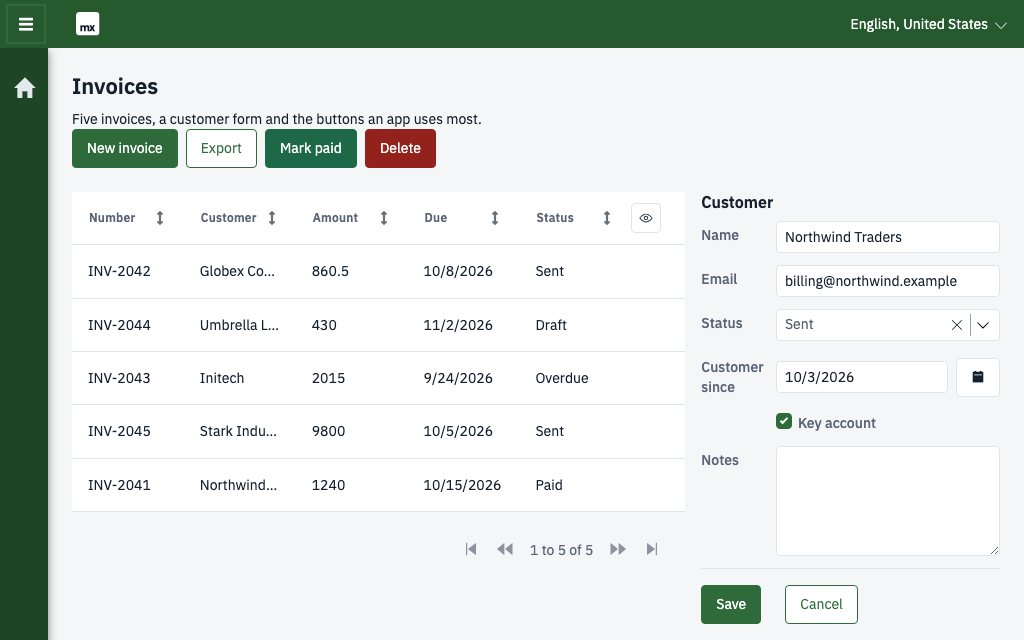
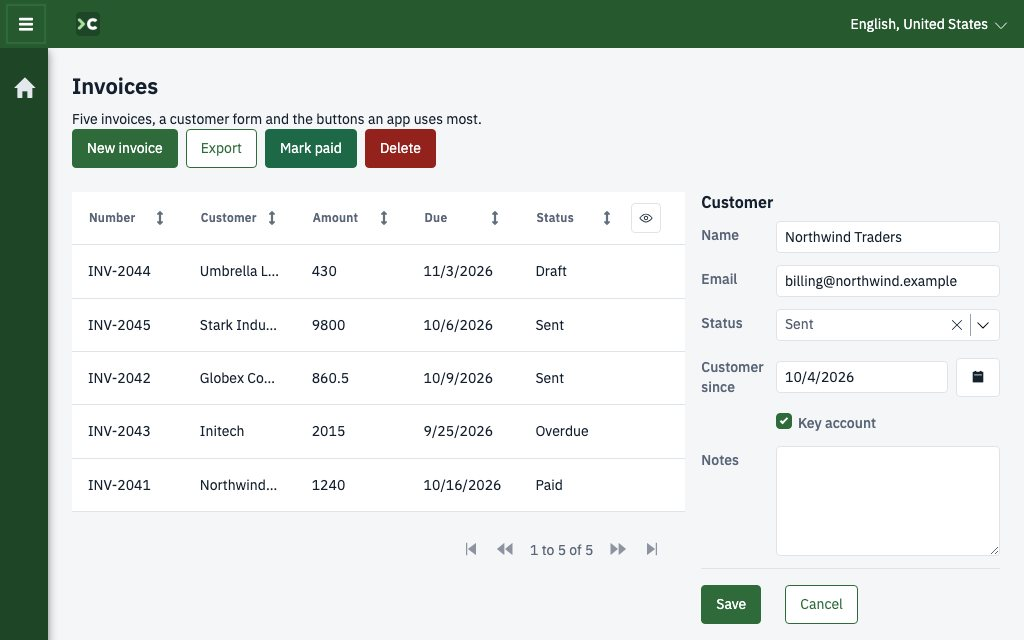
Theme frame: set Atlas's own variables instead of restyling Atlas classes
The skin appended to each bundle theme restyled Atlas classes (.region-topbar,
.mx-navigationtree li.active, .btn-default) with fixed colours. Mendix asks a theme to be
customised through its variables, and Atlas paints these parts from them: --navtopbar-bg
(layouts/_layout-atlas.scss), --navsidebar-bg-active/-hover (helpers/_navigation-tree.scss),
--btn-default-color/-border-color (helpers/_button.scss). The skin now sets only those; the
button colours are scoped to the buttons a page author set to Default (.mx-button.btn-default),
so the grid's column selector and the date picker keep the neutral look, as before.

Same look: five apps built with the installer per theme, old skin against new, compared pixel
by pixel at 1024x640: no difference outside the grid's rows, which only come back in another
order (the showcase grid has no sort). The screenshots are the new builds, now with the
mx-codr logo, Atlas included. An audit test fails a skin that sets any non-variable property.

diff --git a/mxcodr/checks/themes/forest.skin.scss b/mxcodr/checks/themes/forest.skin.scss
@@ -1,30 +1,22 @@
-
 // ---------------------------------------------------------------------------
-// mx-codr frame for the forest theme: a top bar of its own colour, a lighter active
-// item on the side rail, and outline buttons in the brand colour. Appended to the
-// scaffold by the installer (tests/theme.sh too) before `mxcli theme apply`.
+// mx-codr frame for the forest theme: a top bar of its own colour, a lighter active item on
+// the side rail, and outline buttons in the brand colour. Appended to the scaffold by the
+// installer (tests/theme.sh too) before `mxcli theme apply`.
+//
+// Only Atlas's own variables are set -- the ones Atlas Core paints these parts with
+// (layouts/_layout-atlas.scss, helpers/_navigation-tree.scss, helpers/_button.scss). No
+// Atlas property is restyled, so an Atlas update keeps working. This comes after the
+// theme's own block, at the same scope, so it wins without !important.
 :root {
-  --mxcodr-top: #27592f;
-  --mxcodr-rail-active: #2e5e37;
+  --navtopbar-bg: #27592f;
+  --navsidebar-bg-active: #2e5e37;
+  --navsidebar-bg-hover: #2e5e37;
+  --navsidebar-border-radius: var(--mxt-radius-lg);
 }
-.layout-atlas .region-topbar {
-  background-color: var(--mxcodr-top);
-  color: #ffffff;
-}
-.layout-atlas .region-topbar a,
-.layout-atlas .region-topbar .btn,
-.layout-atlas .region-topbar .mx-name-languageSelector,
-.layout-atlas .region-topbar [class*="dropdown"] {
-  color: #ffffff;
-}
-.layout-atlas .region-sidebar .mx-navigationtree li.active > a,
-.layout-atlas .region-sidebar .mx-navigationtree li.active > .navbar-link,
-.layout-atlas .region-sidebar .mx-navigationtree li > a:hover {
-  background-color: var(--mxcodr-rail-active);
-  color: #ffffff;
-  border-radius: var(--mxt-radius-lg);
-}
-.region-content .btn-default:not(.column-selector-button) {
-  border-color: var(--mxt-brand);
-  color: var(--mxt-brand);
+// Buttons a page author set to the Default style (Mendix renders them `mx-button btn-default`)
+// take the brand colour. The variables are scoped to them, so the grid's column selector
+// (`btn-default` only) and the date picker's button (`mx-button` only) keep the neutral look.
+.mx-button.btn-default {
+  --btn-default-color: var(--mxt-brand);
+  --btn-default-border-color: var(--mxt-brand);
 }

diff --git a/mxcodr/checks/themes/amber.skin.scss b/mxcodr/checks/themes/amber.skin.scss
@@ -1,30 +1,22 @@
-
 // ---------------------------------------------------------------------------
-// mx-codr frame for the amber theme: a top bar of its own colour, a lighter active
-// item on the side rail, and outline buttons in the brand colour. Appended to the
-// scaffold by the installer (tests/theme.sh too) before `mxcli theme apply`.
+// mx-codr frame for the amber theme: a top bar of its own colour, a lighter active item on
+// the side rail, and outline buttons in the brand colour. Appended to the scaffold by the
+// installer (tests/theme.sh too) before `mxcli theme apply`.
+//
+// Only Atlas's own variables are set -- the ones Atlas Core paints these parts with
+// (layouts/_layout-atlas.scss, helpers/_navigation-tree.scss, helpers/_button.scss). No
+// Atlas property is restyled, so an Atlas update keeps working. This comes after the
+// theme's own block, at the same scope, so it wins without !important.
 :root {
-  --mxcodr-top: #2e3440;
-  --mxcodr-rail-active: #434c5e;
+  --navtopbar-bg: #2e3440;
+  --navsidebar-bg-active: #434c5e;
+  --navsidebar-bg-hover: #434c5e;
+  --navsidebar-border-radius: var(--mxt-radius-lg);
 }
-.layout-atlas .region-topbar {
-  background-color: var(--mxcodr-top);
-  color: #ffffff;
-}
-.layout-atlas .region-topbar a,
-.layout-atlas .region-topbar .btn,
-.layout-atlas .region-topbar .mx-name-languageSelector,
-.layout-atlas .region-topbar [class*="dropdown"] {
-  color: #ffffff;
-}
-.layout-atlas .region-sidebar .mx-navigationtree li.active > a,
-.layout-atlas .region-sidebar .mx-navigationtree li.active > .navbar-link,
-.layout-atlas .region-sidebar .mx-navigationtree li > a:hover {
-  background-color: var(--mxcodr-rail-active);
-  color: #ffffff;
-  border-radius: var(--mxt-radius-lg);
-}
-.region-content .btn-default:not(.column-selector-button) {
-  border-color: var(--mxt-brand);
-  color: var(--mxt-brand);
+// Buttons a page author set to the Default style (Mendix renders them `mx-button btn-default`)
+// take the brand colour. The variables are scoped to them, so the grid's column selector
+// (`btn-default` only) and the date picker's button (`mx-button` only) keep the neutral look.
+.mx-button.btn-default {
+  --btn-default-color: var(--mxt-brand);
+  --btn-default-border-color: var(--mxt-brand);
 }

diff --git a/mxcodr/checks/themes/navy.skin.scss b/mxcodr/checks/themes/navy.skin.scss
@@ -1,30 +1,22 @@
-
 // ---------------------------------------------------------------------------
-// mx-codr frame for the navy theme: a top bar of its own colour, a lighter active
-// item on the side rail, and outline buttons in the brand colour. Appended to the
-// scaffold by the installer (tests/theme.sh too) before `mxcli theme apply`.
+// mx-codr frame for the navy theme: a top bar of its own colour, a lighter active item on
+// the side rail, and outline buttons in the brand colour. Appended to the scaffold by the
+// installer (tests/theme.sh too) before `mxcli theme apply`.
+//
+// Only Atlas's own variables are set -- the ones Atlas Core paints these parts with
+// (layouts/_layout-atlas.scss, helpers/_navigation-tree.scss, helpers/_button.scss). No
+// Atlas property is restyled, so an Atlas update keeps working. This comes after the
+// theme's own block, at the same scope, so it wins without !important.
 :root {
-  --mxcodr-top: #1b3354;
-  --mxcodr-rail-active: #24456f;
+  --navtopbar-bg: #1b3354;
+  --navsidebar-bg-active: #24456f;
+  --navsidebar-bg-hover: #24456f;
+  --navsidebar-border-radius: var(--mxt-radius-lg);
 }
-.layout-atlas .region-topbar {
-  background-color: var(--mxcodr-top);
-  color: #ffffff;
-}
-.layout-atlas .region-topbar a,
-.layout-atlas .region-topbar .btn,
-.layout-atlas .region-topbar .mx-name-languageSelector,
-.layout-atlas .region-topbar [class*="dropdown"] {
-  color: #ffffff;
-}
-.layout-atlas .region-sidebar .mx-navigationtree li.active > a,
-.layout-atlas .region-sidebar .mx-navigationtree li.active > .navbar-link,
-.layout-atlas .region-sidebar .mx-navigationtree li > a:hover {
-  background-color: var(--mxcodr-rail-active);
-  color: #ffffff;
-  border-radius: var(--mxt-radius-lg);
-}
-.region-content .btn-default:not(.column-selector-button) {
-  border-color: var(--mxt-brand);
-  color: var(--mxt-brand);
+// Buttons a page author set to the Default style (Mendix renders them `mx-button btn-default`)
+// take the brand colour. The variables are scoped to them, so the grid's column selector
+// (`btn-default` only) and the date picker's button (`mx-button` only) keep the neutral look.
+.mx-button.btn-default {
+  --btn-default-color: var(--mxt-brand);
+  --btn-default-border-color: var(--mxt-brand);
 }

diff --git a/mxcodr/checks/themes/plum.skin.scss b/mxcodr/checks/themes/plum.skin.scss
@@ -1,30 +1,22 @@
-
 // ---------------------------------------------------------------------------
-// mx-codr frame for the plum theme: a top bar of its own colour, a lighter active
-// item on the side rail, and outline buttons in the brand colour. Appended to the
-// scaffold by the installer (tests/theme.sh too) before `mxcli theme apply`.
+// mx-codr frame for the plum theme: a top bar of its own colour, a lighter active item on
+// the side rail, and outline buttons in the brand colour. Appended to the scaffold by the
+// installer (tests/theme.sh too) before `mxcli theme apply`.
+//
+// Only Atlas's own variables are set -- the ones Atlas Core paints these parts with
+// (layouts/_layout-atlas.scss, helpers/_navigation-tree.scss, helpers/_button.scss). No
+// Atlas property is restyled, so an Atlas update keeps working. This comes after the
+// theme's own block, at the same scope, so it wins without !important.
 :root {
-  --mxcodr-top: #4a2f5c;
-  --mxcodr-rail-active: #56366a;
+  --navtopbar-bg: #4a2f5c;
+  --navsidebar-bg-active: #56366a;
+  --navsidebar-bg-hover: #56366a;
+  --navsidebar-border-radius: var(--mxt-radius-lg);
 }
-.layout-atlas .region-topbar {
-  background-color: var(--mxcodr-top);
-  color: #ffffff;
-}
-.layout-atlas .region-topbar a,
-.layout-atlas .region-topbar .btn,
-.layout-atlas .region-topbar .mx-name-languageSelector,
-.layout-atlas .region-topbar [class*="dropdown"] {
-  color: #ffffff;
-}
-.layout-atlas .region-sidebar .mx-navigationtree li.active > a,
-.layout-atlas .region-sidebar .mx-navigationtree li.active > .navbar-link,
-.layout-atlas .region-sidebar .mx-navigationtree li > a:hover {
-  background-color: var(--mxcodr-rail-active);
-  color: #ffffff;
-  border-radius: var(--mxt-radius-lg);
-}
-.region-content .btn-default:not(.column-selector-button) {
-  border-color: var(--mxt-brand);
-  color: var(--mxt-brand);
+// Buttons a page author set to the Default style (Mendix renders them `mx-button btn-default`)
+// take the brand colour. The variables are scoped to them, so the grid's column selector
+// (`btn-default` only) and the date picker's button (`mx-button` only) keep the neutral look.
+.mx-button.btn-default {
+  --btn-default-color: var(--mxt-brand);
+  --btn-default-border-color: var(--mxt-brand);
 }

diff --git a/mxcodr/checks/themes/teal.skin.scss b/mxcodr/checks/themes/teal.skin.scss
@@ -1,30 +1,22 @@
-
 // ---------------------------------------------------------------------------
-// mx-codr frame for the teal theme: a top bar of its own colour, a lighter active
-// item on the side rail, and outline buttons in the brand colour. Appended to the
-// scaffold by the installer (tests/theme.sh too) before `mxcli theme apply`.
+// mx-codr frame for the teal theme: a top bar of its own colour, a lighter active item on
+// the side rail, and outline buttons in the brand colour. Appended to the scaffold by the
+// installer (tests/theme.sh too) before `mxcli theme apply`.
+//
+// Only Atlas's own variables are set -- the ones Atlas Core paints these parts with
+// (layouts/_layout-atlas.scss, helpers/_navigation-tree.scss, helpers/_button.scss). No
+// Atlas property is restyled, so an Atlas update keeps working. This comes after the
+// theme's own block, at the same scope, so it wins without !important.
 :root {
-  --mxcodr-top: #0c6766;
-  --mxcodr-rail-active: #14595a;
+  --navtopbar-bg: #0c6766;
+  --navsidebar-bg-active: #14595a;
+  --navsidebar-bg-hover: #14595a;
+  --navsidebar-border-radius: var(--mxt-radius-lg);
 }
-.layout-atlas .region-topbar {
-  background-color: var(--mxcodr-top);
-  color: #ffffff;
-}
-.layout-atlas .region-topbar a,
-.layout-atlas .region-topbar .btn,
-.layout-atlas .region-topbar .mx-name-languageSelector,
-.layout-atlas .region-topbar [class*="dropdown"] {
-  color: #ffffff;
-}
-.layout-atlas .region-sidebar .mx-navigationtree li.active > a,
-.layout-atlas .region-sidebar .mx-navigationtree li.active > .navbar-link,
-.layout-atlas .region-sidebar .mx-navigationtree li > a:hover {
-  background-color: var(--mxcodr-rail-active);
-  color: #ffffff;
-  border-radius: var(--mxt-radius-lg);
-}
-.region-content .btn-default:not(.column-selector-button) {
-  border-color: var(--mxt-brand);
-  color: var(--mxt-brand);
+// Buttons a page author set to the Default style (Mendix renders them `mx-button btn-default`)
+// take the brand colour. The variables are scoped to them, so the grid's column selector
+// (`btn-default` only) and the date picker's button (`mx-button` only) keep the neutral look.
+.mx-button.btn-default {
+  --btn-default-color: var(--mxt-brand);
+  --btn-default-border-color: var(--mxt-brand);
 }

diff --git a/mxcodr/checks/themes/skin.template.scss b/mxcodr/checks/themes/skin.template.scss
@@ -1,30 +1,22 @@
-
 // ---------------------------------------------------------------------------
-// mx-codr frame for the $NAME theme: a top bar of its own colour, a lighter active
-// item on the side rail, and outline buttons in the brand colour. Appended to the
-// scaffold by the installer (tests/theme.sh too) before `mxcli theme apply`.
+// mx-codr frame for the $NAME theme: a top bar of its own colour, a lighter active item on
+// the side rail, and outline buttons in the brand colour. Appended to the scaffold by the
+// installer (tests/theme.sh too) before `mxcli theme apply`.
+//
+// Only Atlas's own variables are set -- the ones Atlas Core paints these parts with
+// (layouts/_layout-atlas.scss, helpers/_navigation-tree.scss, helpers/_button.scss). No
+// Atlas property is restyled, so an Atlas update keeps working. This comes after the
+// theme's own block, at the same scope, so it wins without !important.
 :root {
-  --mxcodr-top: $TOP;
-  --mxcodr-rail-active: $ACTIVE;
+  --navtopbar-bg: $TOP;
+  --navsidebar-bg-active: $ACTIVE;
+  --navsidebar-bg-hover: $ACTIVE;
+  --navsidebar-border-radius: var(--mxt-radius-lg);
 }
-.layout-atlas .region-topbar {
-  background-color: var(--mxcodr-top);
-  color: #ffffff;
-}
-.layout-atlas .region-topbar a,
-.layout-atlas .region-topbar .btn,
-.layout-atlas .region-topbar .mx-name-languageSelector,
-.layout-atlas .region-topbar [class*="dropdown"] {
-  color: #ffffff;
-}
-.layout-atlas .region-sidebar .mx-navigationtree li.active > a,
-.layout-atlas .region-sidebar .mx-navigationtree li.active > .navbar-link,
-.layout-atlas .region-sidebar .mx-navigationtree li > a:hover {
-  background-color: var(--mxcodr-rail-active);
-  color: #ffffff;
-  border-radius: var(--mxt-radius-lg);
-}
-.region-content .btn-default:not(.column-selector-button) {
-  border-color: var(--mxt-brand);
-  color: var(--mxt-brand);
+// Buttons a page author set to the Default style (Mendix renders them `mx-button btn-default`)
+// take the brand colour. The variables are scoped to them, so the grid's column selector
+// (`btn-default` only) and the date picker's button (`mx-button` only) keep the neutral look.
+.mx-button.btn-default {
+  --btn-default-color: var(--mxt-brand);
+  --btn-default-border-color: var(--mxt-brand);
 }

diff --git a/mxcodr/README.md b/mxcodr/README.md
@@ -585,7 +585,11 @@ a name; `MDL_THEME` answers it unattended, and with no terminal Atlas is kept.
 A theme is files under `theme/` only, never the model. The five are created from
 `checks/themes/<name>.css` (installed as `tools/mdl-checks/themes/`) on mxcli's signal base, with
 `<name>.skin.scss` appended to the scaffold for the frame mxcli does not paint: the top bar's own
-colour, the active menu item, and outline buttons in the brand colour. Atlas removes any mxcli
+colour, the active menu item, and outline buttons in the brand colour. The skin sets only Atlas's
+own variables (`--navtopbar-bg`, `--navsidebar-bg-active`, `--btn-default-color`, ...), never an
+Atlas property, the way Mendix asks a theme to be customised; the button colours are scoped to the
+buttons a page author set to Default (`.mx-button.btn-default`), so the grid's column selector and
+the date picker keep the neutral look. Atlas removes any mxcli
 theme. A theme is applied with `--variant light`, so the app opens light even when the OS is dark
 (the dark palette stays in the files; `./mxcli theme apply <name> --variant auto` follows the OS).
 The mx-codr logo (a prompt `>` and a heavy "c", sharp even at 16px) comes with every theme, Atlas too, in that theme's
